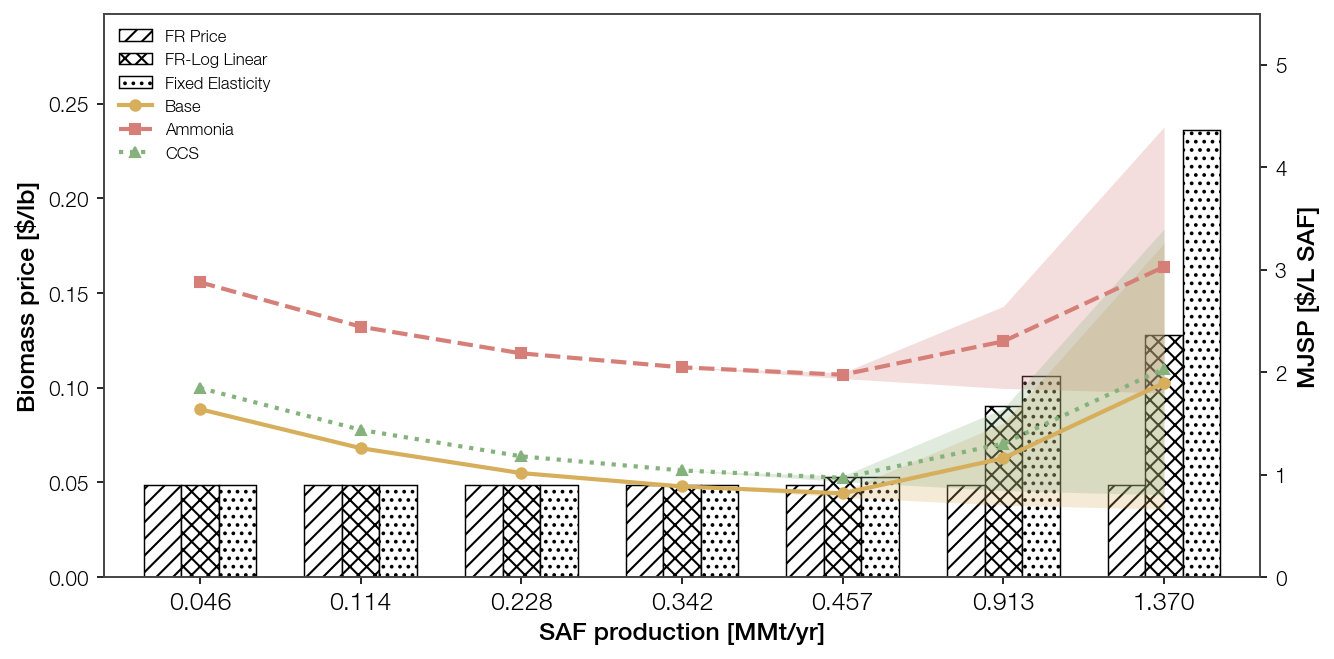
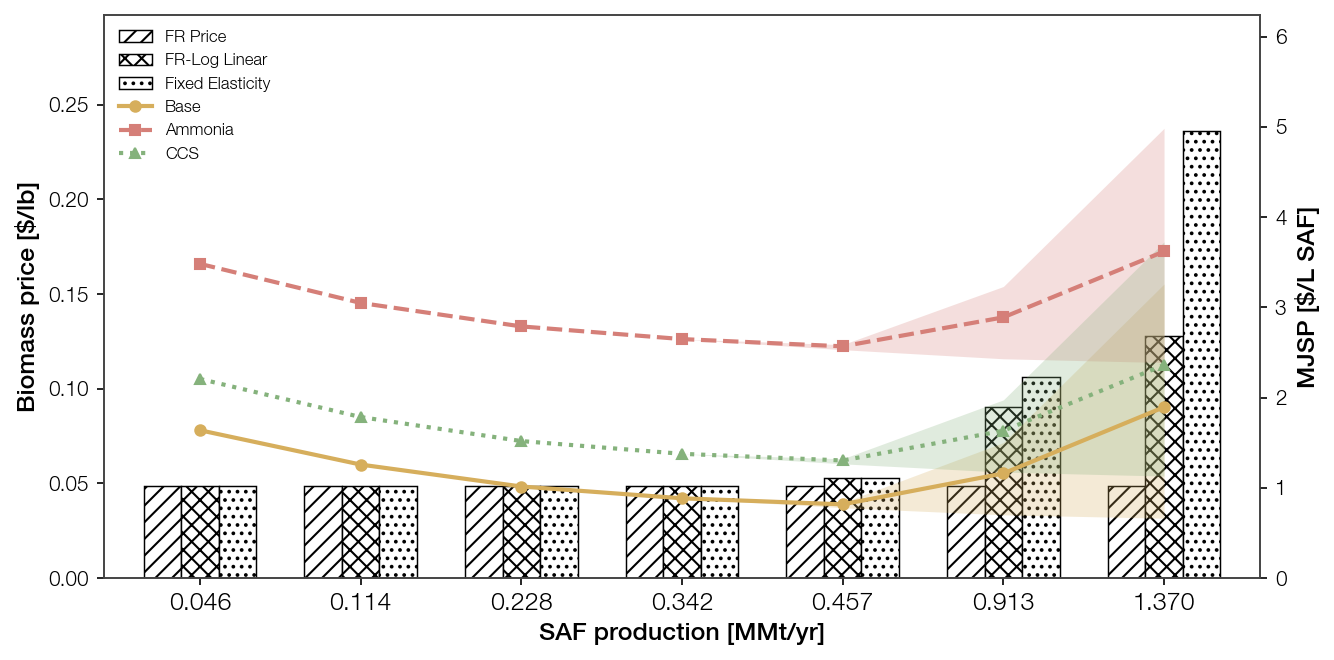
Full ammonia + full CCS in price-model scale-up figure
Ammonia case -> full ammonia (drop ammonia_portion, read 'Ammonia' row);
CCS case -> full capture (ccs_portion 0.6->1.0). Fixes prior Mix-as-Ammonia
mislabel. Split plotting: scale_up_price_model_mjsp.png = multi-case
(bar biomass price, line MJSP mean+band per case); _base.png keeps bar MJSP
/ line biomass price.

diff --git a/tea_scale_up_price_models.py b/tea_scale_up_price_models.py
@@ -36,11 +36,12 @@ for model, folder in case_price_model_and_folder:
         # file_stream = f'Process_Data\\Pyrolysis_Jones_572_2MC_{int(n * 10):04d}_Streams.xlsx'
         # file_apea = folder + f'\\Pyrolysis_Jones_572_2MC_{int(n * 10):04d}_APEAresults.xlsm'
 
+        # full ammonia (ammonia_portion=None -> 'Ammonia' row, all grey H2 stripped) and full CCS (ccs_portion=1.0)
         df_mjsp, energy_production, annual_prod_saf, main_h2_demand, opex_names, data_all, name_h2_source_new = \
-            tea.economic_analysis(file_stream, file_apea, name_h2_source, ammonia_portion=.655)
+            tea.economic_analysis(file_stream, file_apea, name_h2_source)
         df_mjsp_ccs, _, _, _, _, data_ccs, _ = \
-            tea.economic_analysis(file_stream, file_apea, name_h2_source[:1], ccs_portion=0.6)
-        df_mjsp_all = pd.concat([df_mjsp.loc[['Base', 'Mix']], df_mjsp_ccs])
+            tea.economic_analysis(file_stream, file_apea, name_h2_source[:1], ccs_portion=1.0)
+        df_mjsp_all = pd.concat([df_mjsp.loc[['Base', 'Ammonia']], df_mjsp_ccs])
         df_mjsp_all.index = ['Base', 'Ammonia', 'CCS']
 
         annual_prod_saf_ton = tea.get_annual_prod_saf_ton(file_stream)  # ton/yr
@@ -51,7 +52,7 @@ for model, folder in case_price_model_and_folder:
         case_data['MJSP'].append(df_mjsp_all)
 
         case_data['Base'].append(data_all['cost'][name_h2_source_new.index('Base')])
-        case_data['Ammonia'].append(data_all['cost'][name_h2_source_new.index('Mix')])
+        case_data['Ammonia'].append(data_all['cost'][name_h2_source_new.index('Ammonia')])
         case_data['CCS'].append(data_ccs['cost'][name_h2_source_new.index('Base')])
 
         case_data['Price Model'].append(model)
@@ -119,9 +120,9 @@ SA_RC = {
 }
 plt.rcParams.update(SA_RC)
 
-bar_hatches = ['///', 'xxx', '...']   # color-free bars, one hatch per price model
-# base_summary palette, darkened for line visibility: Base / Ammonia / CCS(60%)
-line_colors = ['#D6AE5C', '#D57F78', '#85B27C']
+bar_colors = ['#F0B1AC', '#BBDBB4', '#B5D7EB']   # one color per price model (MJSP bars); from base_summary palette
+styles_price = ['-', '-.', ':']      # one linestyle per price model (biomass price lines)
+markers_model = ['o', 'x', '^']      # one marker per price model
 
 # x-axis = SAF production [MMt/yr] (scale-only; identical across price models and H2 configs)
 m0 = unique_cats[0]
@@ -129,9 +130,38 @@ saf_mmt = (cost_base_all[cost_base_all['case price model'] == m0]
            .set_index('case scale').loc[case_scale, 'saf production'] / 1e6)
 xlabels = [f'{v:.3f}' for v in saf_mmt]
 
+x = np.arange(len(case_scale))
+
+# --- Figure 1 (_base): bar = MJSP of Base plant per price model; line = biomass price ---
+mjsp_bar = mjsp['Base']
+fig, ax = plt.subplots(figsize=(9, 4.5))
+mjsp_bar.plot(kind='bar', color=bar_colors, edgecolor='black', ax=ax, width=0.7)   # MJSP bars, one color per price model
+ax.set_ylabel("MJSP [$/L SAF]")
+ax.set_xlabel("SAF production [MMt/yr]")
+ax.set_xticklabels(xlabels, rotation=0)
+ax.set_ylim(0, ax.get_ylim()[1] * 1.2)
+
+ax2 = ax.twinx()
+for price_idx, col in enumerate(df_price.columns):   # biomass price lines, all black
+    ax2.plot(x, df_price[col], color='black', marker=markers_model[price_idx],
+             linestyle=styles_price[price_idx], linewidth=2, markersize=5, label=col)
+ax2.set_ylabel("Biomass price [$/lb]")
+ax2.set_ylim(0, ax2.get_ylim()[1] * 1.2)
+
+handles, labels = ax.get_legend_handles_labels()
+h2, l2 = ax2.get_legend_handles_labels()
+ax.legend(handles + h2, labels + l2, loc='upper left')
+plt.savefig(os.path.join(fig_folder, 'scale_up_price_model_mjsp_base.png'))
+
+# --- Figure 2: bar = biomass price per price model (hatched); line = MJSP mean + price-model range band per case ---
+bar_hatches = ['///', 'xxx', '...']   # color-free bars, one hatch per price model
+line_colors = ['#D6AE5C', '#D57F78', '#85B27C']   # base_summary palette, darkened: Base / Ammonia / CCS
+case_styles = ['-', '--', ':']       # one linestyle per case
+case_markers = ['o', 's', '^']       # one marker per case
+
 fig, ax = plt.subplots(figsize=(9, 4.5))
 df_price.plot(kind='bar', color='white', edgecolor='black', ax=ax, width=0.7)
-for container, hatch in zip(ax.containers, bar_hatches):   # one hatch pattern per price model
+for container, hatch in zip(ax.containers, bar_hatches):   # one hatch per price model
     for bar in container:
         bar.set_hatch(hatch)
 ax.set_ylabel("Biomass price [$/lb]")
@@ -140,11 +170,7 @@ ax.set_xticklabels(xlabels, rotation=0)
 ax.set_ylim(0, ax.get_ylim()[1] * 1.2)
 
 ax2 = ax.twinx()
-x = np.arange(len(case_scale))
-case_styles = ['-', '--', ':']       # one linestyle per case (Base / Ammonia / CCS)
-case_markers = ['o', 's', '^']       # one marker per case
-# per case: mean line (own style+marker) = mean over the 3 price models; shaded band = their full range
-for cfg_idx, (name, df) in enumerate(mjsp.items()):
+for cfg_idx, (name, df) in enumerate(mjsp.items()):   # per case: mean line = mean over price models; band = their full range
     ax2.fill_between(x, df.min(axis=1), df.max(axis=1),
                      color=line_colors[cfg_idx], alpha=0.25, linewidth=0)
     ax2.plot(x, df.mean(axis=1), color=line_colors[cfg_idx], linewidth=2,
@@ -155,7 +181,6 @@ ax2.set_ylim(0, ax2.get_ylim()[1] * 1.2)
 handles, labels = ax.get_legend_handles_labels()
 h2, l2 = ax2.get_legend_handles_labels()
 ax.legend(handles + h2, labels + l2, loc='upper left')
-
 plt.savefig(os.path.join(fig_folder, 'scale_up_price_model_mjsp.png'))
 
 # report data

diff --git a/_Scale_Up_Sensitivity.md b/_Scale_Up_Sensitivity.md
@@ -303,6 +303,50 @@ Same method, base scale (1×), sweeping capture rate. GHG per rate (LCA sheets `
 
 ## Log history
 
+### 2026-09-29
+
+**Discussion**
+- **Price-model figure now uses full-ammonia + full-CCS** (was Mix 65.5 % ammonia + 60 % CCS).
+  Aligns the price-model MJSP basis with §3.2 / the 09-28 grouped-bar figure (both full-ammonia,
+  full-CCS). The 65.5 % Mix and 60 % partial-CCS variants are dropped from this figure only.
+
+**Code**
+- `tea_scale_up_price_models.py`: ammonia case switched to full ammonia (`ammonia_portion` dropped
+  -> reads the `'Ammonia'` row, all grey H2 stripped, per [[tea-ammonia-source-recipe]]); CCS case
+  `ccs_portion` 0.6 -> 1.0 (full capture, funs.py:504). Fixes the prior Mix-as-Ammonia mislabel.
+- Same file: dropped the `base_only` toggle; now emits BOTH figures each run.
+  `scale_up_price_model_mjsp_base.png` keeps the old layout (bar = Base MJSP per price model,
+  line = biomass price). `scale_up_price_model_mjsp.png` restored to the multi-case layout
+  (bar = biomass price hatched per price model, line = MJSP mean + full price-model range band
+  per case: Base / Ammonia / CCS). Both regenerated, exit 0. Full-ammonia +~\$1.7/L, full-CCS
+  +~\$0.47/L over Base at 30x (30x: Base 0.66 / Ammonia 2.39 / CCS 1.13 \$/L, FR Price).
+
+**Open**
+- None for this task.
+
+### 2026-09-28
+
+**Discussion**
+- **Drafted Manuscript §3.2 "Green ammonia and CCS integration"** (`Manuscript/3. Results.md`)
+  from this report's §1 (551 basis, linear-CAPEX = manuscript Fig 7/8 basis). Economics: full
+  green ammonia +$1.7–1.8/L flat premium (never cost-competitive), 60% CCS flat +$0.16/L
+  scale-invariant premium; neither shifts the ~0.42 MMt/yr MES from §3.1.
+- **Total GHG per scale, per-subunit split (user request).** WTWa intensity is scale-independent
+  (§4), so total annual emissions = intensity × SAF energy scale linearly. Used LHV 44.8 MJ/kg
+  (`_Base_Revision.md` §2.3) for kt/yr→MJ; allocation method. Base 87.6 / full-ammonia 49.5 read
+  from §4; **CCS-60% intensity (60.3 g/MJ) linearly interpolated** from the §5 50%/75% capture
+  points (§4 tabulates only full-CCS-100%). Totals 0.18→5.37 (base) / 0.10→3.03 (ammonia) /
+  0.12→3.70 (CCS) Mt CO2e/yr over 0.046→1.37 MMt/yr.
+- **Basis mismatch flagged, not merged.** Draft §3.1 figure (`scale_up_wo_price_model_*`, from
+  `tea_scale_up.py`) is on **Jones_572_2MC**; §3.2 uses the **551** §1 data. MJSP levels are not
+  continuous across the two subsections (e.g. base 30× = $0.54 Jones vs $0.678 in §1). Left in
+  Left-over for the user to reconcile.
+
+**Code**
+- `plot_scale_up_mjsp_bar.py`: grouped bar chart of MJSP (Base / Full-Ammonia / Full-CCS)
+  across the seven scales, hardcoded from the §1 table (linear-CAPEX, manuscript basis).
+  Writes `Figure/scale_up_mjsp_bar.png` (SA_RC style, no grid/title, RdYlBu colors).
+
 ### 2026-09-27
 
 **Discussion**
